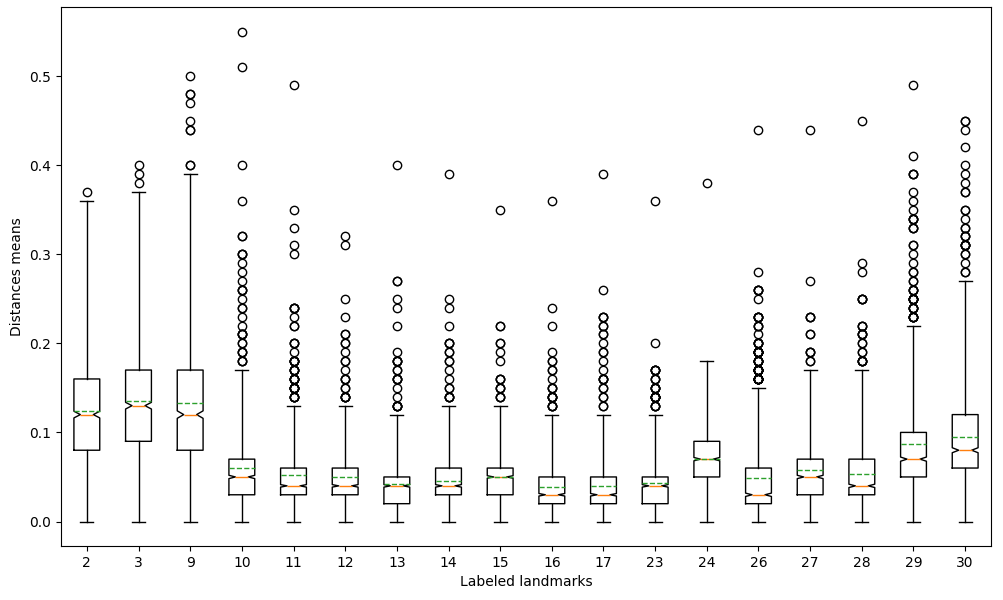
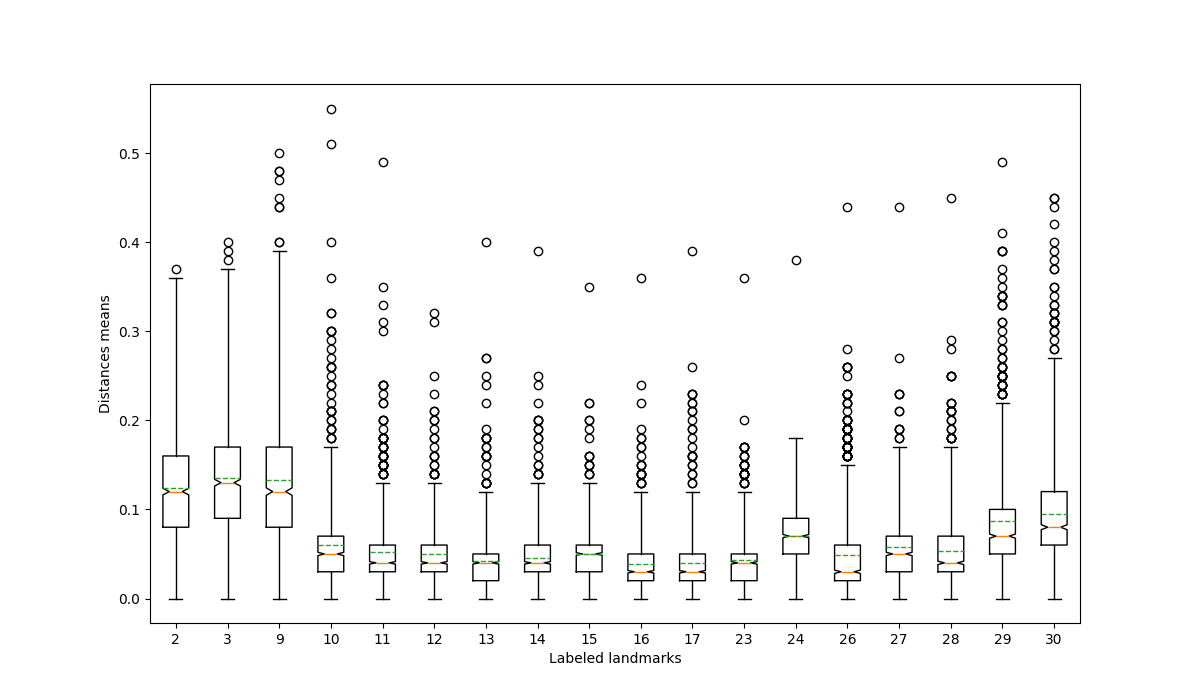
fixes

diff --git a/src/plot_image_points.py b/src/plot_image_points.py
@@ -12,16 +12,15 @@ from .face_alignment.correspondent_fa_type import CorrespondentFaceAlignment
 from .mlkit.correspondent_mlkit_type import CorrespondentMLKit
 from PIL import Image
 
-ground_truth_file_path = '/home/renatoalexey/Documents/Bases/cfp-dataset/Data/Fiducials/033/profile/04.txt'
-#ground_truth_file_path = 'F:\\Bases\\cfp-dataset\\Data\\Fiducials\\487\\profile\\02.txt'
+#ground_truth_file_path = '/home/renatoalexey/Documents/Bases/cfp-dataset/Data/Fiducials/001/profile/01.txt'
+ground_truth_file_path = 'F:\\Bases\\cfp-dataset\\Data\\Fiducials\\001\\profile\\01.txt'
 img_path = core.get_image_path(ground_truth_file_path)
 
-
-    
-
 def tests_face_alignment():
-    ground_truth_points_list, image = cfp.get_ground_truth_points(img_path)
-            
+    img_path = 'F:\\Bases\\cfp-dataset\\renatoalexey.png'
+    #ground_truth_points_list, image = cfp.get_ground_truth_points(img_path)
+    image = cv2.imread(img_path)
+    image = cv2.cvtColor(image, cv2.COLOR_BGR2RGB)      
     fa_points_list, face_detected = core.get_face_alignment_points(image)
     #fa_points_list =[[124.  , 47.],[126.  , 65.],    [128.  , 83.],    [130.  , 97.],    [136. , 115.],    [152. , 129.],    [168. , 139.],    [186. , 147.],    [196. , 153.],    [202. , 149.],    [208. , 143.],    [208. , 135.],    [210. , 119.],    [212.  , 97.],[204.  , 89.],[202.  , 73.],[198.  , 53.],[178.  , 29.],[186.  , 22.],[194.  , 20.],[198.  , 22.],[200.  , 24.],[202.  , 26.],[200.  , 24.],[198.  , 26.],[194.  , 29.],[184.  , 39.],[202.  , 47.],[208.  , 57.],[216.  , 65.],[218.  , 73.],[202.  , 83.],[206.  , 83.],[208.  , 85.],[208.  , 85.],[204.  , 85.],[186.  , 41.],[192.  , 39.],[194.  , 39.],[192.  , 45.],[192.  , 45.],[190.  , 45.],[192.  , 49.],[196.  , 45.],[198.  , 45.],[190.  , 49.],[196.  , 51.],[196.  , 51.],[200. , 109.],[206. , 101.],[210.  , 95.],[212.  , 97.],[212.  , 95.],[210. , 101.],[204. , 109.],[210. , 113.],[212. , 115.],[212. , 115.],[210. , 115.],[208. , 113.],[200. , 109.],[208. , 103.],[210. , 103.],[210. , 103.],[204. , 109.],[210. , 107.],[210. , 107.],[208. , 107.]] 
     correspondent_points = CorrespondentFaceAlignment.CFP.points
@@ -31,10 +30,11 @@ def tests_face_alignment():
     #     print('adsf')
   
     color = image.shape[2]
-    print(f"Fa: {fa_points_list[0]}")
+    #print(f"Fa: {fa_points_list}")
         
+    prints_library_graphic(image, fa_points_list[0])
     #prints_graphic(image, fa_points_list[0], correspondent_points, ground_truth_points_list)
-    all_points(image, ground_truth_points_list, fa_points_list[0])
+    #all_points(image, ground_truth_points_list, fa_points_list[0])
 def tests_amazon():
     ground_truth_points_list, image = cfp.get_ground_truth_points(img_path)
     amazon_points, face_detected = core.get_amazon_points(image, img_path)
@@ -66,6 +66,22 @@ def prints_graphic(img, library_points_list, correspondent_points, ground_truth_
             plt.imshow(img)
             plt.axis("off")
             plt.show()
+            
+def prints_library_graphic(img, library_points_list):
+    fig, ax = plt.subplots()
+    ax.imshow(img)   
+    plt.imshow(img)
+    
+    for library_points in library_points_list:
+        for library_point in library_points:
+            print(f"Library point: {library_point}")    
+            a, b = library_point
+            plt.scatter(a, b, color="blue", s=10)
+            #plt.annotate(str(correspondent_points.get(i) + 1), (a, b), textcoords="offset points", xytext=(0,5), ha='center', color="blue", fontsize=8)
+    
+    plt.imshow(img)
+    plt.axis("off")
+    plt.show()
 
 def all_points(image, ground_truth_points, library_points):
     correspondent_points = CorrespondentAmazon.CFP.points
@@ -106,6 +122,6 @@ def print_points(fiducial_points, plt, color='red'):
     return plt 
 
 
-#tests_face_alignment()
+tests_face_alignment()
 #tests_amazon()
 

diff --git a/src/creates_graph.py b/src/creates_graph.py
@@ -77,8 +77,8 @@ def all_distances_boxplot():
                 soma_key = int( soma/100 + 1) * 100
             distances_tools_list.append(distance_means)
 
-    for teste in distances_tools_list:
-        print(np.mean(teste)) 
+    #for teste in distances_tools_list:
+        #print(np.mean(teste)) 
     print_graph(distances_tools_list, "distances", label_names, "Bibliotecas")
 
 def distances_per_point(file_path, keys):
@@ -144,7 +144,7 @@ def distances_per_resolution_area(file_path):
     
     for teste in names:
         ocorrencias = [t[3] for t in teste].count("Multiple")
-        print(ocorrencias)
+        #print(ocorrencias)
     
     print_graph(values, f"resolutions_distances_{label}", labels, "Resolutions")
 
@@ -169,14 +169,13 @@ def accuracy_face_per_resolution():
 
     all_files = get_result_files()
     #all_files = ["result/cfp_fa_result.txt"]
-    rels_interval_list = get_rel_interval(all_files[0])
-    x_keys = []
+    #rels_interval_list = get_rel_interval(all_files[0])
     for file_path in all_files:
+        if os.path.isdir(file_path):
+            continue
         detected_area_list = []
         lines = get_file_lines(file_path)
 
-        resolution_distance_list = {}
-        teste = {}
         before_img = ''
         for line in lines:
             actual_img = get_image_name(line)
@@ -200,7 +199,6 @@ def accuracy_face_per_resolution():
                 values.append((detected_temp.count('True') + detected_temp.count('Multiple'))*100/len(detected_temp))
                 detected_temp = []
             
-        img_name = get_image_name(line)
         #plt.plot(list(map(lambda x: str(int(x/10000)), x_keys)), arrei, label=file_path, marker='o')
         label = get_library_from_path(file_path)
         plt.plot(labels, values, label=label, marker='o')
@@ -246,18 +244,18 @@ def tests_point_fa():
     
 #get_resolution_sum("name: 001/profile\01.jpg, resolution: 158x157, color: RGB, face detected: True, distances: [12.85, 17.62, 27.88, 31.04, 28.19, 24.89, 20.72, 17.03, 7.39, 63.9, 81.49, 94.78, 57.51, 62.88, 56.66, 63.94, 74.62, 74.0, 71.01, 52.4, 47.84, 27.59, 38.01, 25.89], mean: 45.00541666666667")
 
-#result_paths_correspondent = [("result/cfp_amazon_result.txt", CorrespondentAmazon.CFP.points.keys()), ("result/cfp_fa_result.txt", CorrespondentFaceAlignment.CFP.points.keys()), ("result/cfp_mlkit_result.txt", CorrespondentMLKit.CFP.points.keys())]
-result_paths_correspondent = [("result/cfp_fa_result.txt", CorrespondentFaceAlignment.CFP.points.keys())]
+result_paths_correspondent = [("result/cfp_amazon_result.txt", CorrespondentAmazon.CFP.points.keys()), ("result/cfp_fa_result.txt", CorrespondentFaceAlignment.CFP.points.keys()), ("result/cfp_mlkit_result.txt", CorrespondentMLKit.CFP.points.keys())]
+#result_paths_correspondent = [("result/cfp_fa_result.txt", CorrespondentFaceAlignment.CFP.points.keys())]
 
 for result_path in result_paths_correspondent:
     distances_per_resolution_area(result_path[0])
-    #distances_per_point(result_path[0], list(result_path[1]))
+    distances_per_point(result_path[0], list(result_path[1]))
 
 #file_path = "result/cfp_amazon_result.txt"
 
 #tests_point_fa()
-#all_distances_boxplot()
-#accuracy_face_per_resolution()
+all_distances_boxplot()
+accuracy_face_per_resolution()
 #teste()
 #teste_2()
 #get_match_result("name: 083\profile\02.jpg, resolution: 1336x1220, color: RGB, face detected: Multiple, distances: [], mean: 0")

diff --git a/src/amazon/detect_distances.py b/src/amazon/detect_distances.py
@@ -11,7 +11,7 @@ output_amazon_path = "result/cfp_amazon_result.txt"
 def run():
     image_path_list = cfp.get_images_paths()
     #image_path_list = ['/home/renatoalexey/Documents/Bases/cfp-dataset/Data/Images/018/profile/01.jpg']
-    #image_path_list = ['F:\\Bases\\cfp-dataset\\Data\\Images\\001\\profile\\01.jpg']
+    image_path_list = ['F:\\Bases\\cfp-dataset\\Data\\Images\\033\\profile\\02.jpg']
     for image_path in image_path_list:
         
         ground_truth_points_list, image = cfp.get_ground_truth_points(image_path)
@@ -28,9 +28,9 @@ def run():
         l_accuracy = round(l_accuracy, 2)
         print(l_accuracy) 
         img_suffix = image_path[image_path.index("Images") + 7: len(image_path)].replace("/", "_")
-        core.writes_landmarks_bb("amazon", img_suffix, amazon_points_list[i_max], bounding_box_max, l_accuracy)
+        #core.writes_landmarks_bb("amazon", img_suffix, amazon_points_list[i_max], bounding_box_max, l_accuracy)
         
-        #saves_distances(image_path, ground_truth_points_list, image, amazon_points_list, face_detected, img_suffix)
+        saves_distances(image_path, ground_truth_points_list, image, amazon_points_list[i_max], face_detected, img_suffix)
 
 def get_bounding_box_coordenates(bb):
     x_min = bb['Left']
@@ -49,15 +49,15 @@ def saves_distances(image_path, ground_truth_points_list, image, amazon_points_l
     distances_list = []
     correspondent_points = CorrespondentAmazon.CFP.points
 
+    #if face_detected == FaceType.MULTIPLE:
+        #save_images.bounding_boxes(image, amazon_points_list, save_path)
+    #for amazon_points in amazon_points_list:
+        #if face_detected == FaceType.ONE:
+            #save_images.fiducial_points(image, ground_truth_points_list, amazon_points, correspondent_points, save_path)
     if face_detected == FaceType.MULTIPLE:
-        save_images.bounding_boxes(image, amazon_points_list, save_path)
-    for amazon_points in amazon_points_list:
-        if face_detected == FaceType.ONE:
-            save_images.fiducial_points(image, ground_truth_points_list, amazon_points, correspondent_points, save_path)
-        elif face_detected == FaceType.MULTIPLE:
-            if not core.valids_bounding_box(image, amazon_points):
-                continue
-        distances_list.append(core.get_euclidean_results(ground_truth_points_list, amazon_points, CorrespondentAmazon.CFP.points, image))
+        if not core.valids_bounding_box(image, amazon_points_list):
+            return
+    distances_list.append(core.get_euclidean_results(ground_truth_points_list, amazon_points_list, CorrespondentAmazon.CFP.points, image))
 
     core.writes_euclidean_distances(image_path, face_detected.value, distances_list, output_amazon_path)
 

diff --git a/src/face_alignment/fa_calculates_distances.py b/src/face_alignment/fa_calculates_distances.py
@@ -30,23 +30,25 @@ def run():
         bounding_box_max = fa_points_list[2][i_max]
         l_accuracy = core.calcs_landmarks_inside(ground_truth_points_list, bounding_box_max)
         l_accuracy = round(l_accuracy, 2)
-        core.writes_landmarks_bb("face_alignment", img_suffix, fa_points_list[0][i_max], bounding_box_max, l_accuracy)
-        save_images.library_bounding_boxes(image, bounding_box_max, save_path)
+        #core.writes_landmarks_bb("face_alignment", img_suffix, fa_points_list[0][i_max], bounding_box_max, l_accuracy)
+        #save_images.library_bounding_boxes(image, bounding_box_max, save_path)
+        fa_points = fa_points_list[0][i_max]
+        saves_distances(face_detected, image, fa_points, save_path, ground_truth_points_list, image_path)
         
 def saves_distances(face_detected, image, fa_points_list, save_path, ground_truth_points_list, image_path):
     distances_list = []
     correspondent_points = CorrespondentFaceAlignment.CFP.points
     
-    if face_detected == FaceType.MULTIPLE:
-        save_images.bounding_boxes(image, fa_points_list, save_path)
+    #if face_detected == FaceType.MULTIPLE:
+       # save_images.bounding_boxes(image, fa_points_list, save_path)
     
-    for fa_points in fa_points_list:
-        if face_detected == FaceType.ONE:
-            save_images.fiducial_points(image, ground_truth_points_list, fa_points, correspondent_points, save_path)
-        elif face_detected == FaceType.MULTIPLE:
-            if not core.valids_bounding_box(image, fa_points):
-                continue
-        distances_list.append(core.get_euclidean_results(ground_truth_points_list, fa_points, correspondent_points, image))
+    #for fa_points in fa_points_list:
+        #if face_detected == FaceType.ONE:
+            #save_images.fiducial_points(image, ground_truth_points_list, fa_points, correspondent_points, save_path)
+    if face_detected == FaceType.MULTIPLE:
+        if not core.valids_bounding_box(image, fa_points_list):
+            return
+    distances_list.append(core.get_euclidean_results(ground_truth_points_list, fa_points_list, correspondent_points, image))
 
     core.writes_euclidean_distances(image_path, face_detected.value, distances_list, "result/cfp_fa_result.txt")
 

diff --git a/src/creates_table.py b/src/creates_table.py
@@ -1,22 +1,32 @@
 import re
+import matplotlib.pyplot as plt
 from src.utils import core
 
 tool_list = ["amazon", "face_alignment", "mlkit"]
 threshold_list = [70, 90, 100]
 
+def print_graph(means, graph_name, positions=None, x_label=None):
+    plt.figure(figsize=(12, 7))
+    plt.boxplot(means, positions, showmeans=True, meanline=True, tick_labels=positions, whis=2.5)
+    plt.xlabel(x_label)
+    plt.ylabel('Accuracy(%)')
+    plt.savefig(f'{graph_name}.png')
 def get_bb_accuracy(line):
     match = re.search(r"l_accuracy:[^,]*", line)
     return match.group().split(":")[1].strip()
 
 def run():
+    all_bounding_boxes = []
     for tool_name in tool_list:
         file_path = f"result/{tool_name}/landmarks.txt"
         bb_accuracy_list = []
         print(f"{tool_name}:")
         for line in core.get_file_lines(file_path):
-            bb_accuracy_list.append(get_bb_accuracy(line))
+            bb_accuracy_list.append(float(get_bb_accuracy(line)))
         for threshold in threshold_list:
            above_t = len(list(filter(lambda n: float(n) >= threshold, bb_accuracy_list)) )
            print(f"Threshold: {threshold} result: {above_t*100/len(bb_accuracy_list)}")
+        all_bounding_boxes.append(bb_accuracy_list)
+    print_graph(all_bounding_boxes, "accuracy_landmarks", tool_list, "Bibliotecas")
 
 run()
